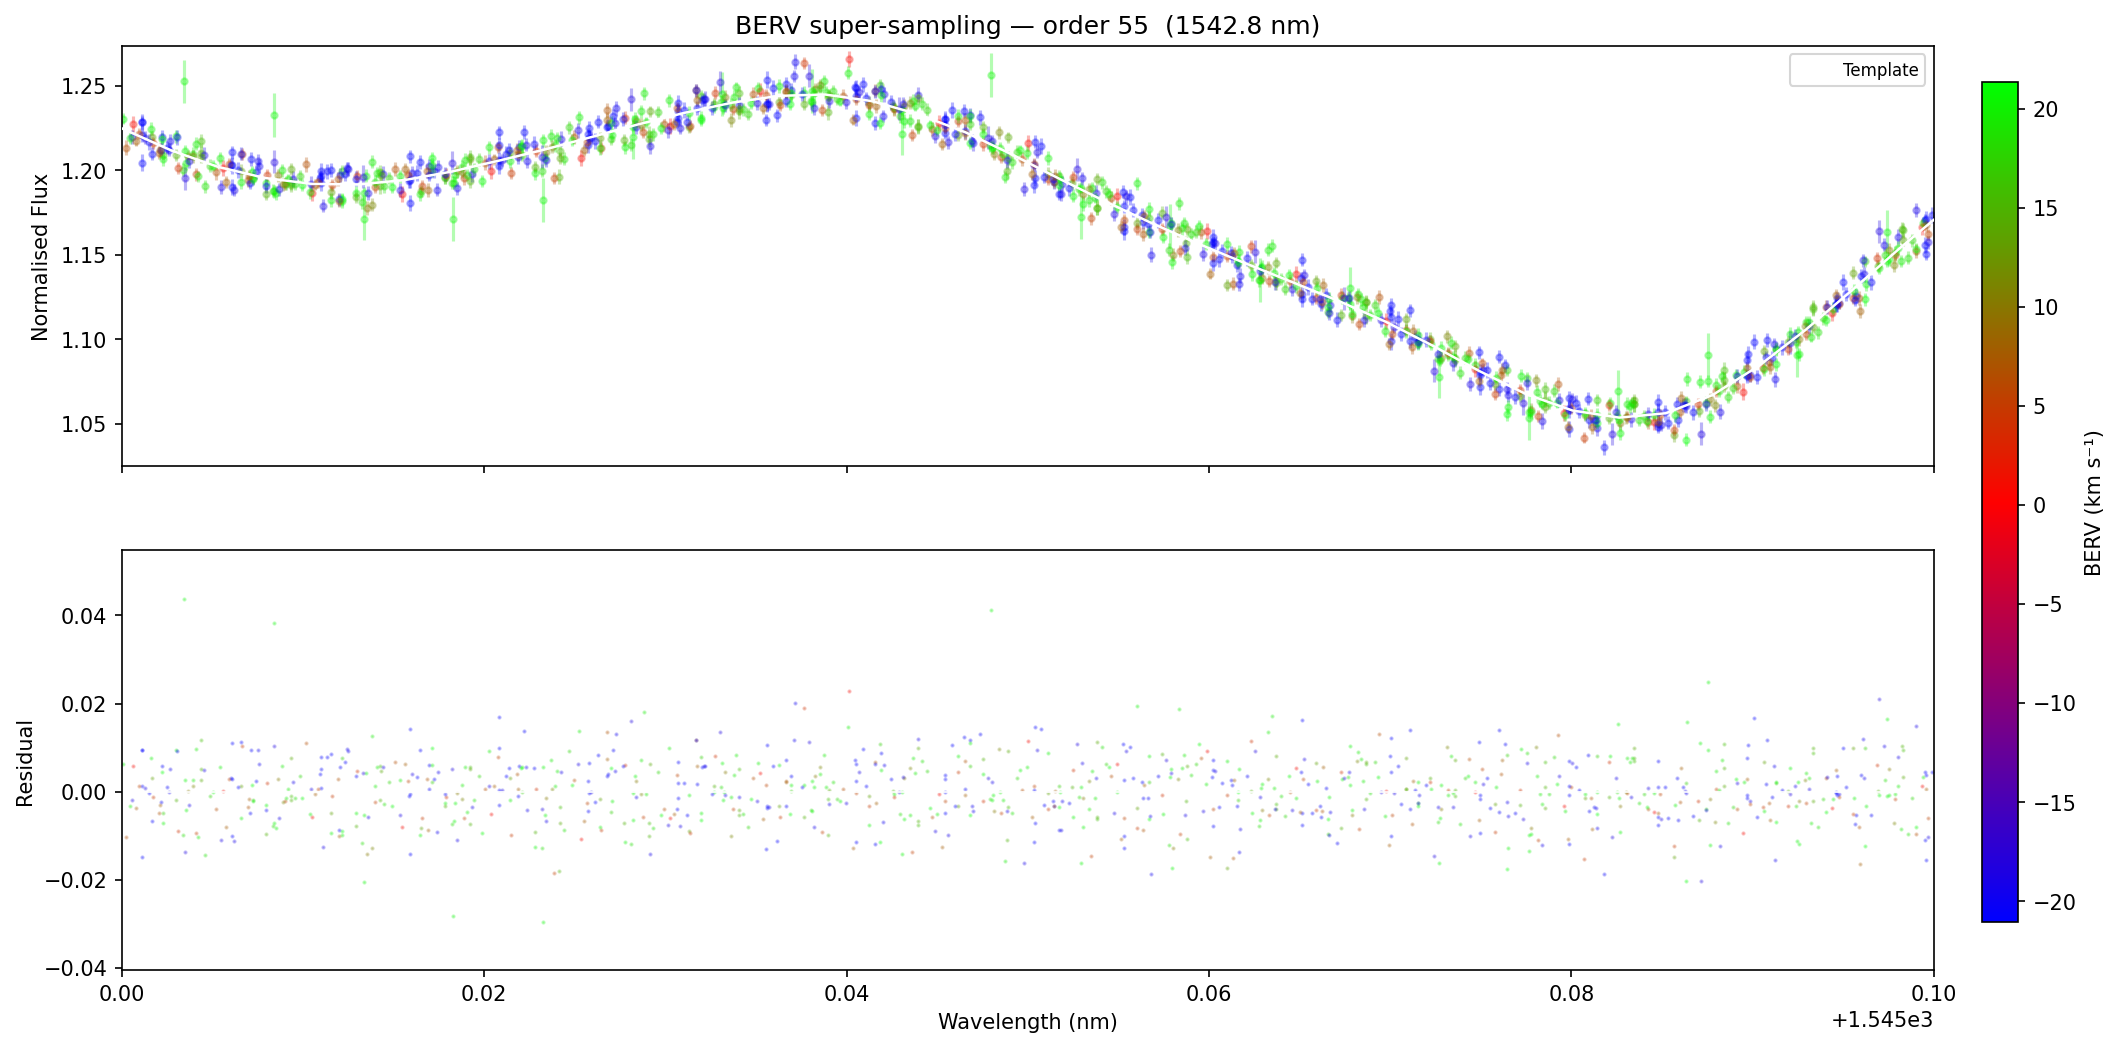
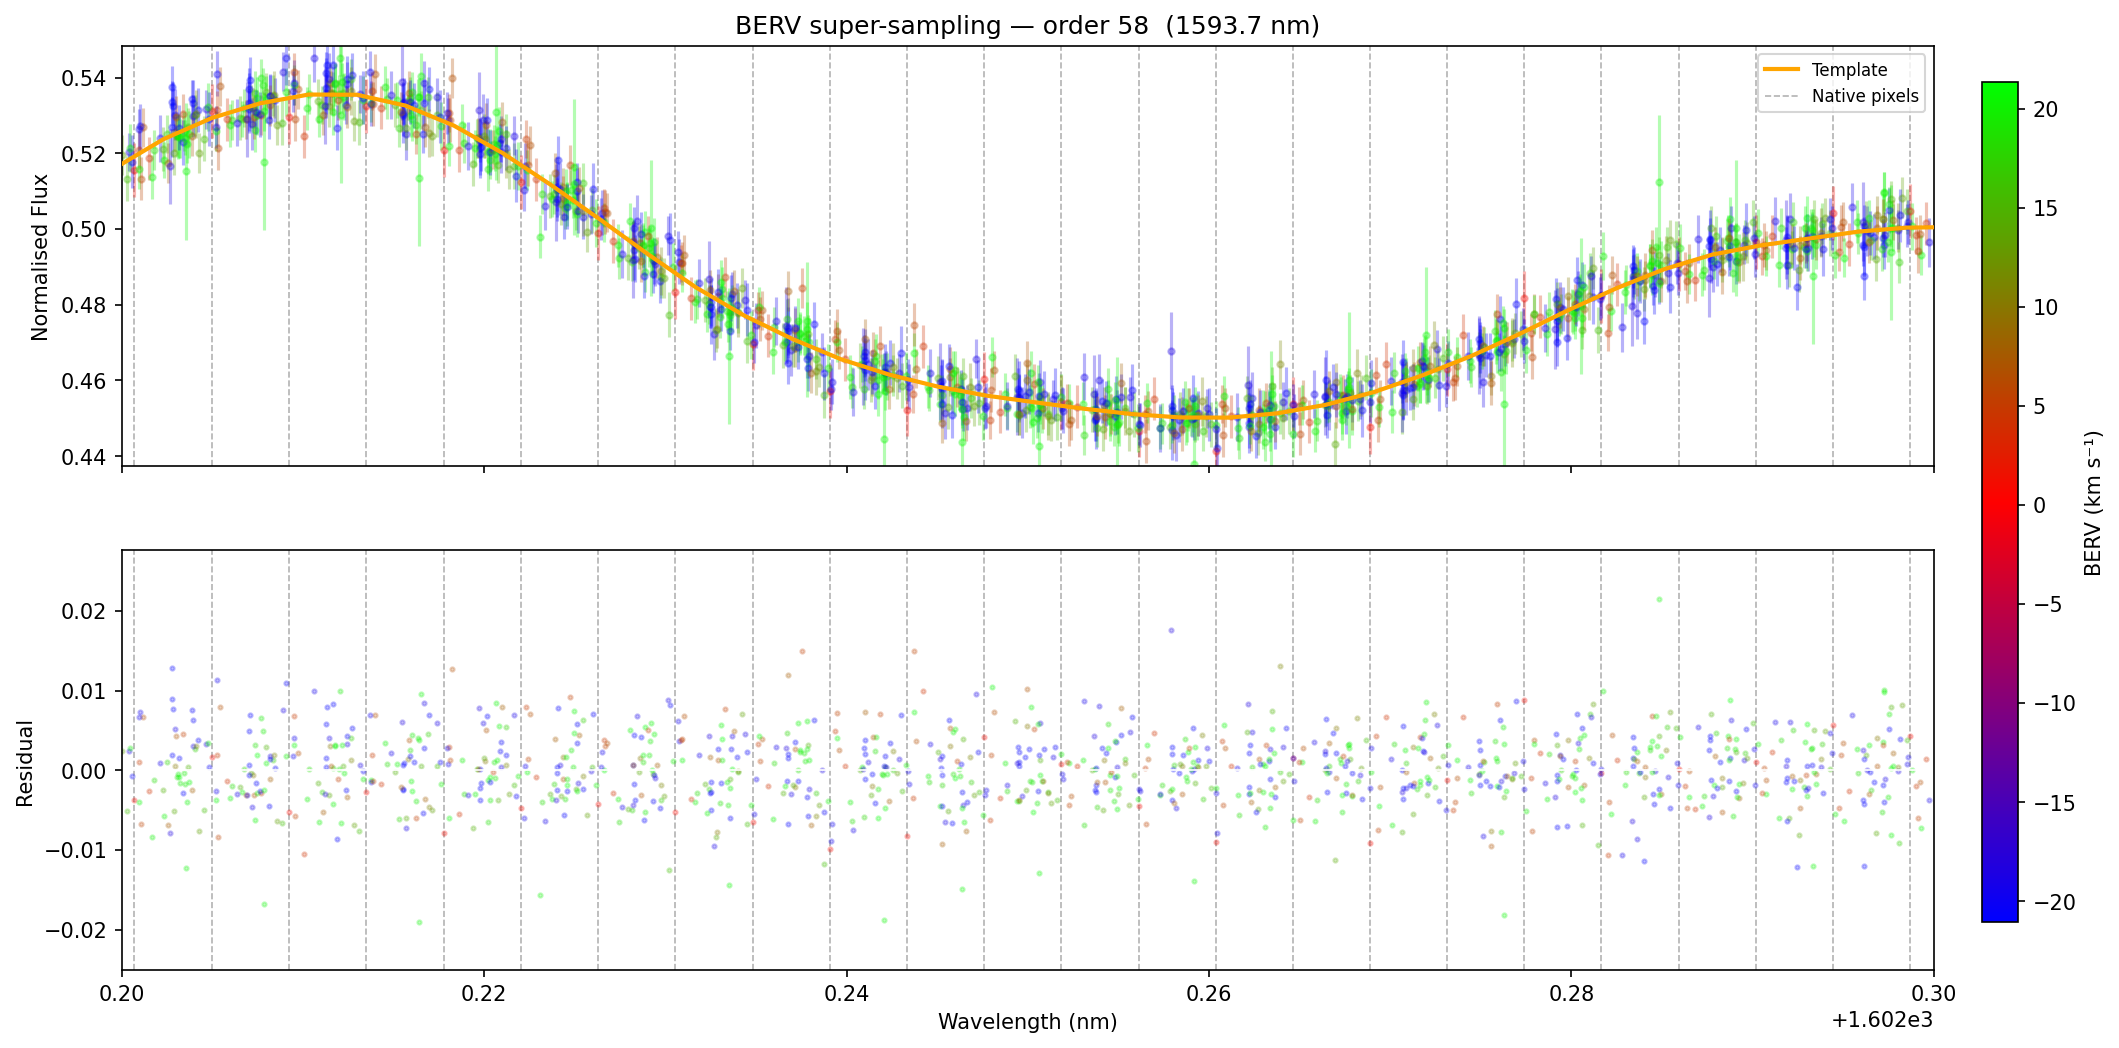
Update plotting parameters and enhance visualization in make_template function

diff --git a/template_nointerp.py b/template_nointerp.py
@@ -167,7 +167,7 @@ def make_template(files, doplot=False, skymask=-1, mask_o2=True, docmode=False, 
         wave0 = 950  # Starting wavelength for NIRPS.
         wave1 = 2000  # Ending wavelength for NIRPS.
         fiber = 'A'  # Fiber type for NIRPS.
-        plot_order = 55 # Order to plot for NIRPS.
+        plot_order = 58 # Order to plot for NIRPS.
 
     elif inst == 'SPIRou':
         dv_grid = 1.0  # Velocity step in km/s for SPIRou.
@@ -366,7 +366,7 @@ def make_template(files, doplot=False, skymask=-1, mask_o2=True, docmode=False, 
         _do_order_plot = (doplot or docmode or quickdoc) and iord == plot_order
         if _do_order_plot:
             med_wave = np.nanmedian(waves)
-            xcut = (1545.0, 1545.1)
+            xcut = (1602.2, 1602.3)
 
             fig_scatter, ax_scatter = plt.subplots(nrows=2, ncols=1, figsize=(16, 8), sharex=True)
             fig_scatter.subplots_adjust(right=0.88)
@@ -476,7 +476,15 @@ def make_template(files, doplot=False, skymask=-1, mask_o2=True, docmode=False, 
             # ── scatter figure ──────────────────────────────────────────────
             valid_plot = np.isfinite(sp_magic)
             ax_scatter[0].plot(wave_magic[valid_plot], sp_magic[valid_plot],
-                               color='white', lw=1.2, label='Template', zorder=5)
+                               color='orange', lw=2.0, label='Template', zorder=5)
+            # Overplot native pixel centres from the first file as vertical dashed lines
+            _native_pix = waves[0][(waves[0] > xcut[0]) & (waves[0] < xcut[1])]
+            _first_pix = True
+            for _xpix in _native_pix:
+                ax_scatter[0].axvline(_xpix, color='gray', lw=0.8, ls='--', alpha=0.6, zorder=1,
+                                      label='Native pixels' if _first_pix else None)
+                ax_scatter[1].axvline(_xpix, color='gray', lw=0.8, ls='--', alpha=0.6, zorder=1)
+                _first_pix = False
             ax_scatter[0].set_xlim(xcut)
             # auto y-limits from data in zoom window
             _g0 = valid_plot & (wave_magic > xcut[0]) & (wave_magic < xcut[1])
@@ -497,7 +505,7 @@ def make_template(files, doplot=False, skymask=-1, mask_o2=True, docmode=False, 
                 res = fluxes[isp] - sp_recon_plot
                 g = np.isfinite(res) & (waves[isp] > xcut[0]) & (waves[isp] < xcut[1])
                 color = cmap(norm_berv(ABS_VELO[isp]))
-                ax_scatter[1].plot(waves[isp][g], res[g], '.', color=color, alpha=0.25, ms=2)
+                ax_scatter[1].plot(waves[isp][g], res[g], '.', color=color, alpha=0.25, ms=4)
                 _all_res.append(res[g])
             ax_scatter[1].axhline(0, color='white', lw=0.8)
             ax_scatter[1].set_xlim(xcut)
